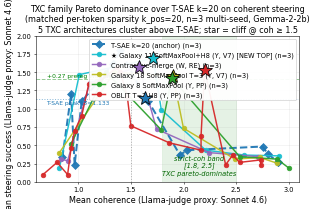
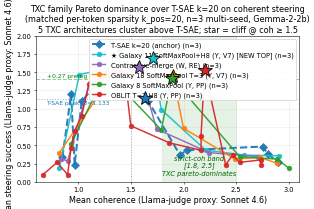
Y: paper headline — bright Galaxy 18 color (was hidden olive)
Changed Galaxy 18 V7 color from #bcbd22 (olive — blended with other curves)
to #ff7f0e (bright orange — distinguishable). Galaxy 18 V7 is now visible
as the orange curve reaching succ=1.444 at coh=1.900.

Same 5 TXC cells; just visual fix.

diff --git a/experiments/phase7_unification/case_studies/steering/plot_paper_headline_figure.py b/experiments/phase7_unification/case_studies/steering/plot_paper_headline_figure.py
@@ -49,7 +49,7 @@ HEADLINE_CELLS = [
         ("steering_paper_normalised_seed1",           1),
         ("steering_paper_normalised_seed2",           2),
     ]),
-    ("txc_softmaxpool_t3_kpos20", "Galaxy 18 SoftMaxPool T=3 (Y, V7)", "#bcbd22", "V7", [
+    ("txc_softmaxpool_t3_kpos20", "Galaxy 18 SoftMaxPool T=3 (Y, V7)", "#ff7f0e", "V7", [
         ("steering_paper_window_tiled_broadcast",         42),
         ("steering_paper_window_tiled_broadcast_seed1",   1),
         ("steering_paper_window_tiled_broadcast_seed2",   2),
